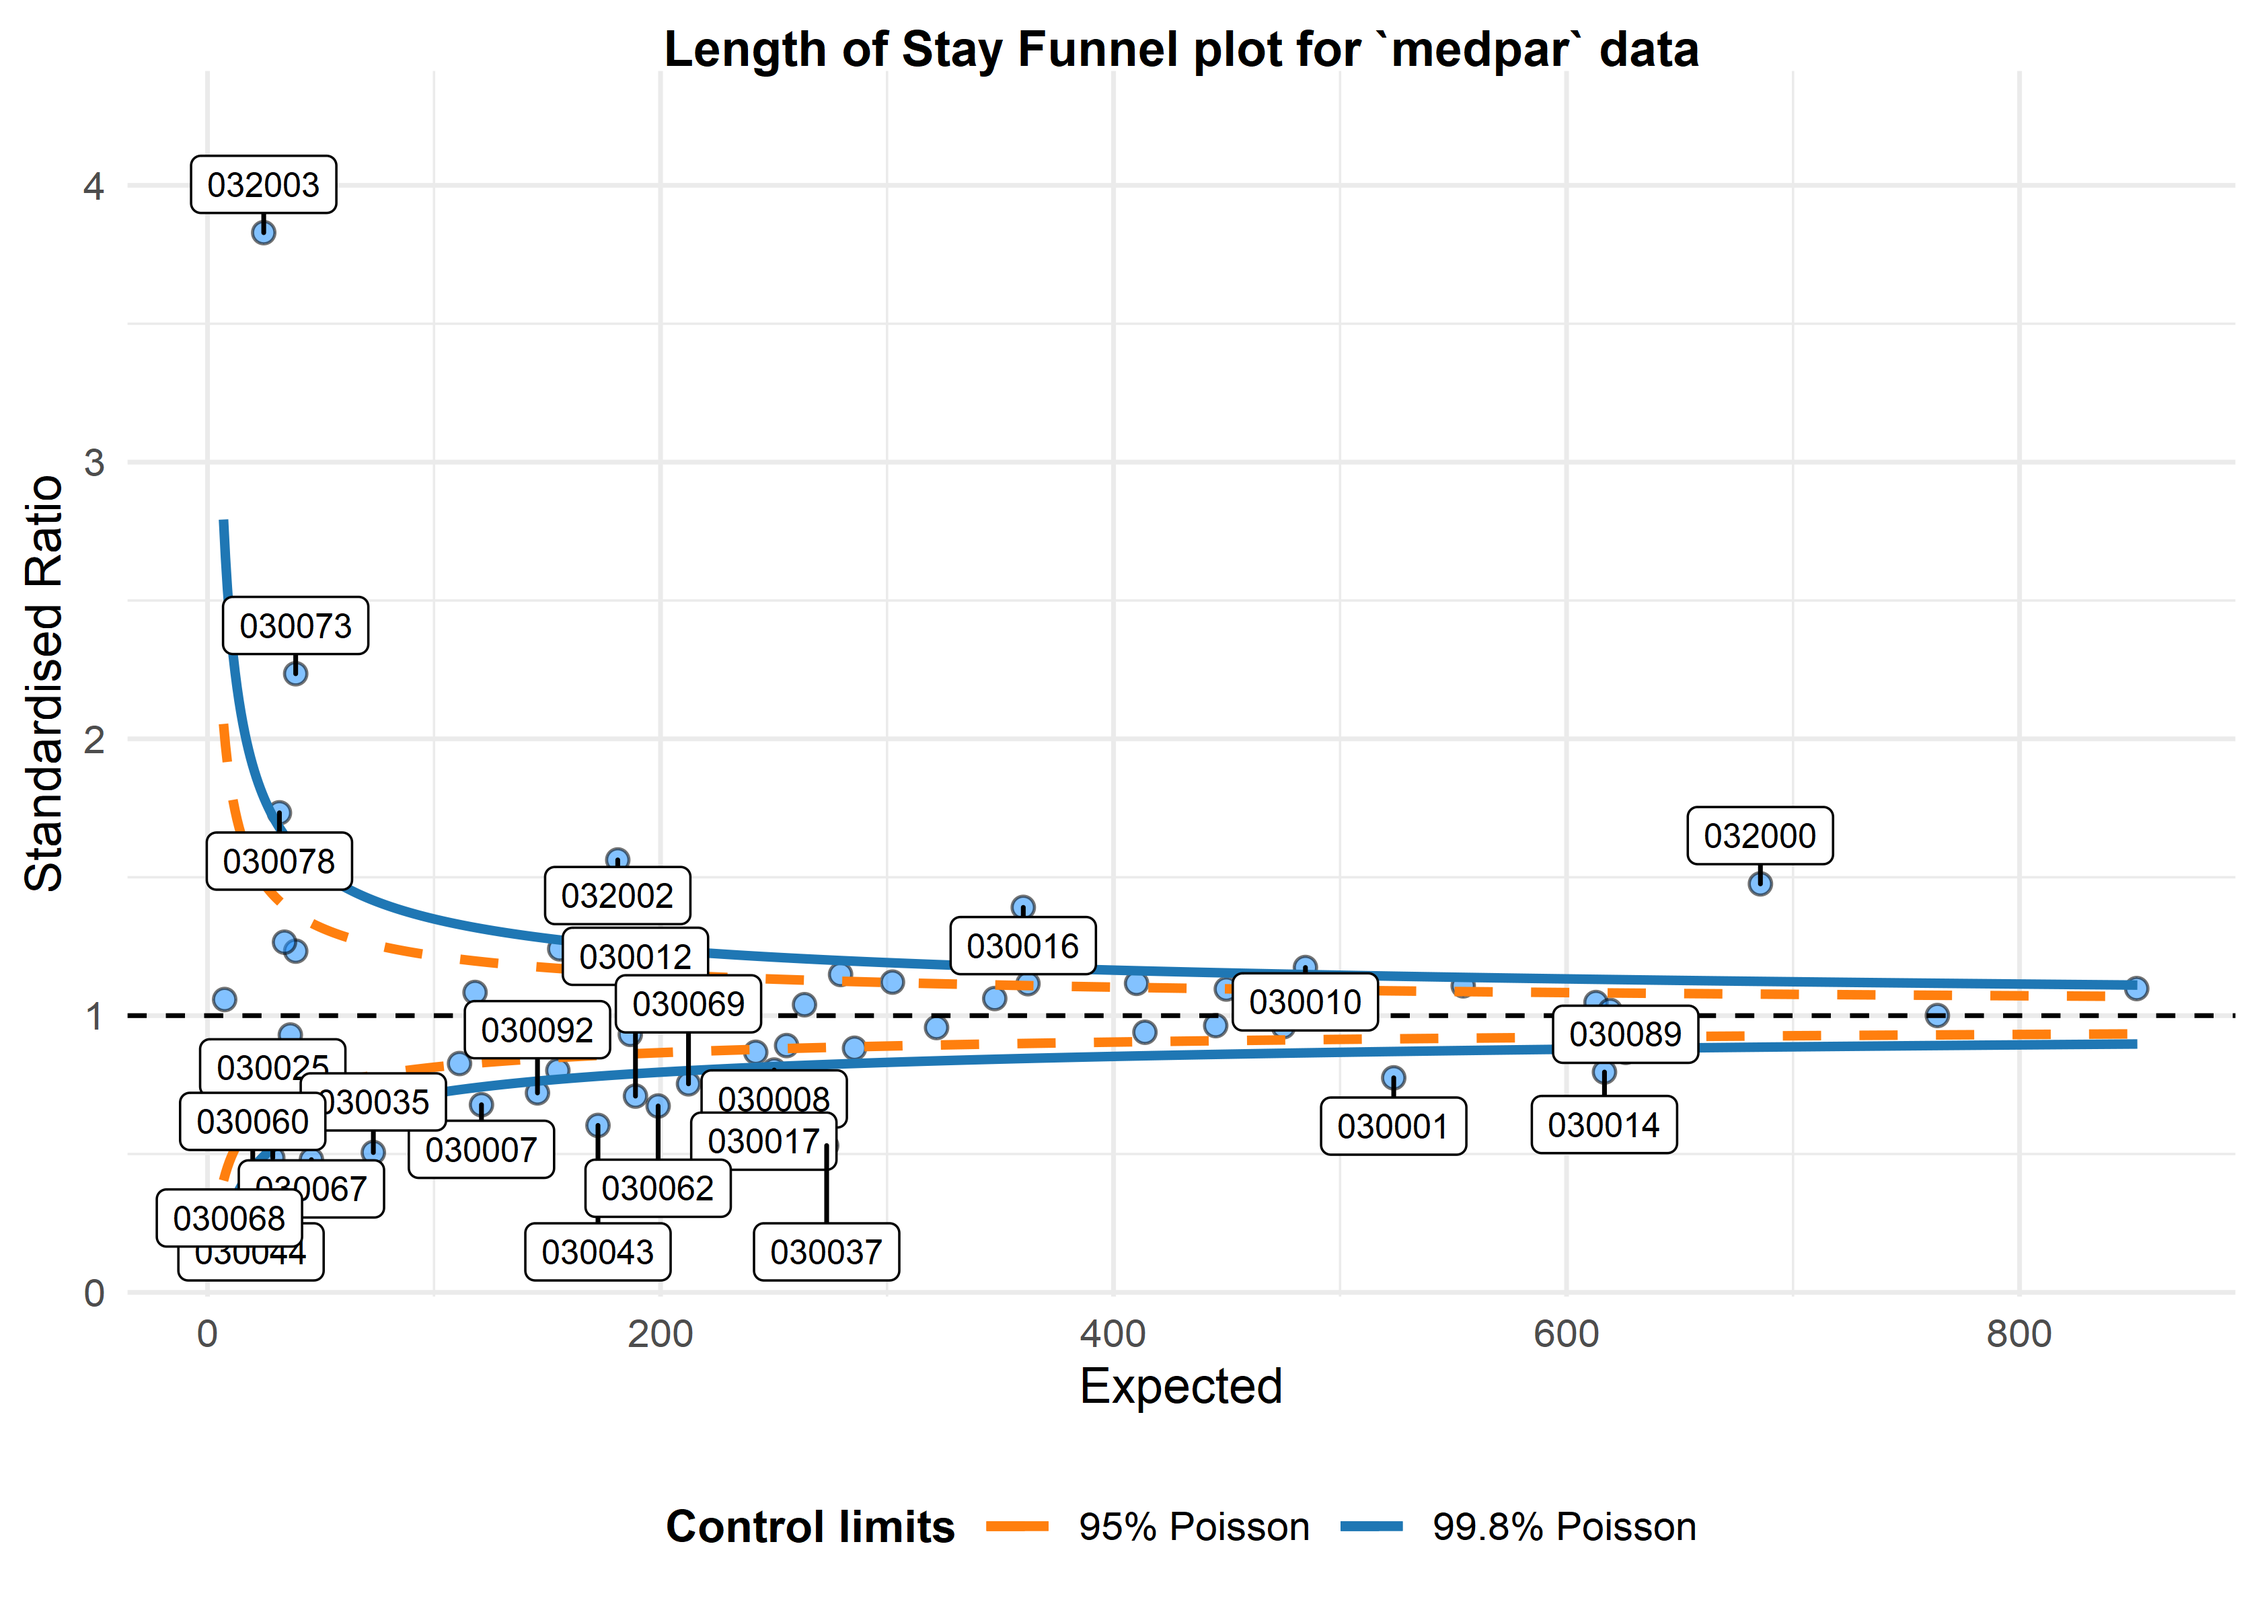
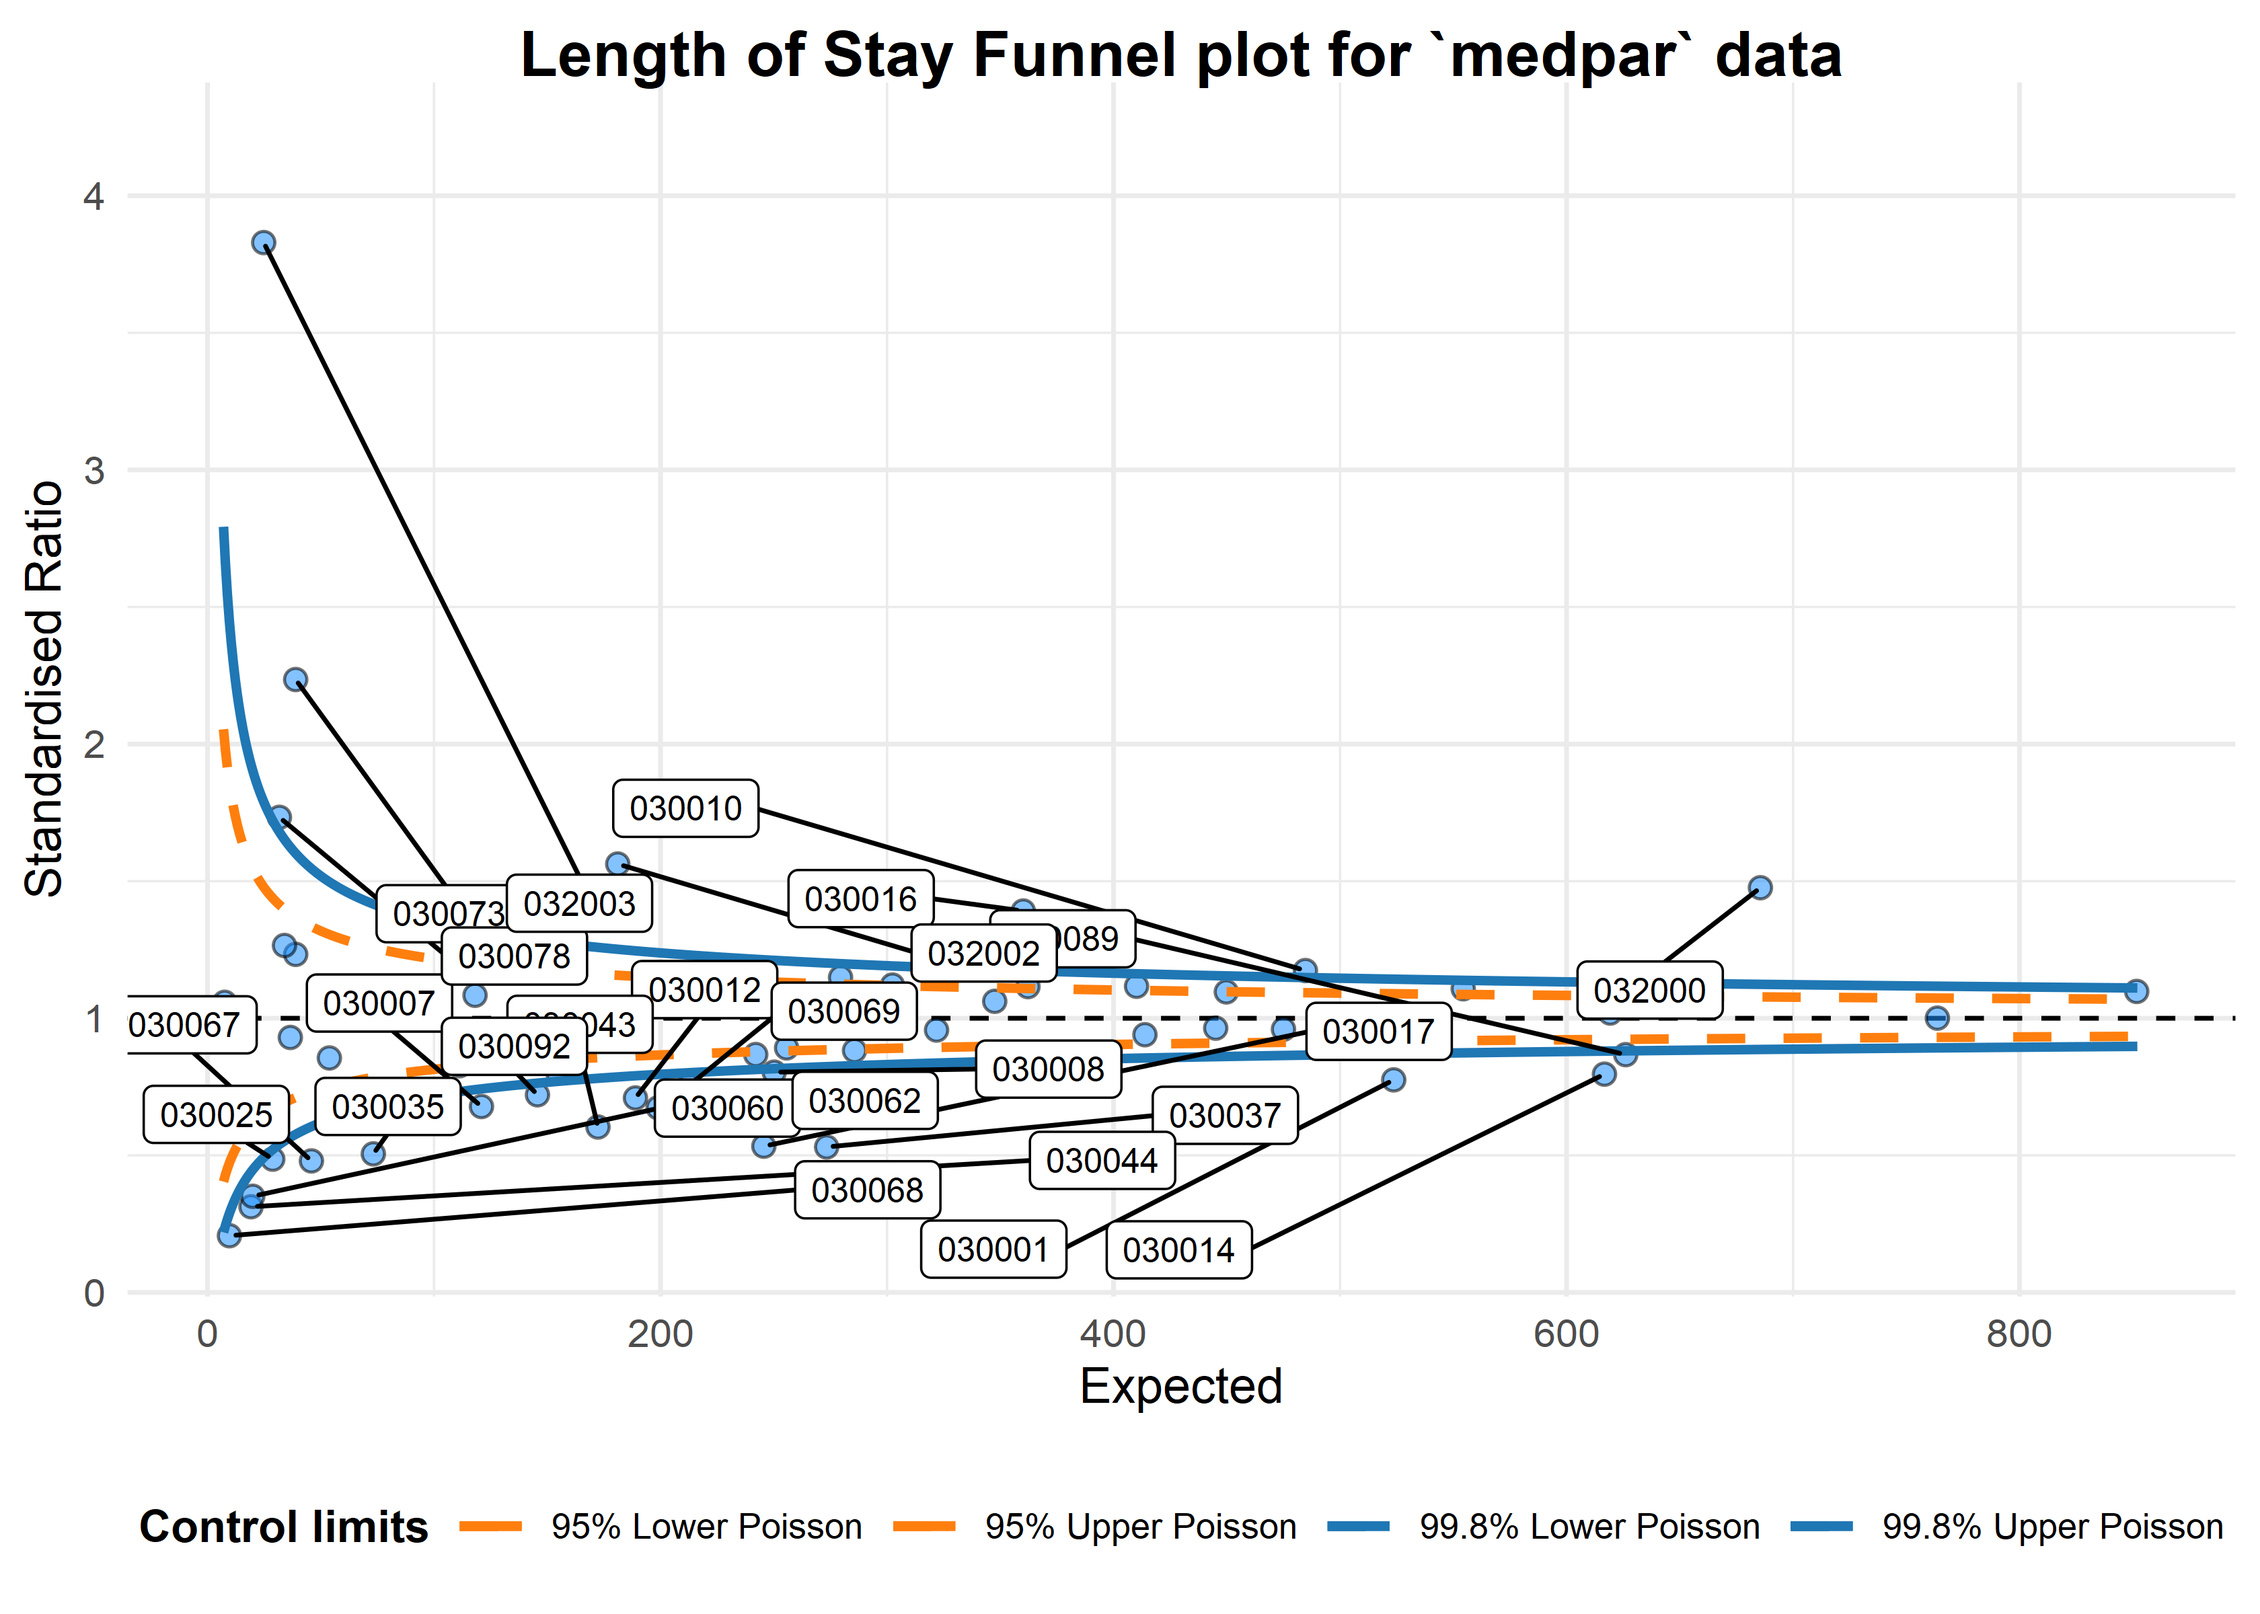
Resolved bad placement of labels due to ggrepel package update.  Needed to explicitly NA unlabled points and remove with na.rm

diff --git a/README.md b/README.md
@@ -144,7 +144,7 @@ and outliers labelled.
 ``` r
 a<-funnel_plot(numerator=medpar$los, denominator=medpar$prds, group = medpar$provnum, 
             title = 'Length of Stay Funnel plot for `medpar` data', data_type="SR", limit=99,
-            Poisson_limits = TRUE, OD_adjust = FALSE, label_outliers = TRUE)
+            Poisson_limits = TRUE, OD_adjust = FALSE, label="outlier")
 print(a)
 ```
 
@@ -174,7 +174,7 @@ for this by inflating the limits:
 ``` r
 b<-funnel_plot(numerator=medpar$los, denominator=medpar$prds, group = medpar$provnum, data_type = "SR",
             title = 'Length of Stay Funnel plot for `medpar` data', Poisson_limits = FALSE,
-            OD_adjust = TRUE, sr_method = "SHMI",label_outliers = TRUE, limit=99)
+            OD_adjust = TRUE, sr_method = "SHMI", label="outlier", limit=99)
 
 print(b)
 ```
